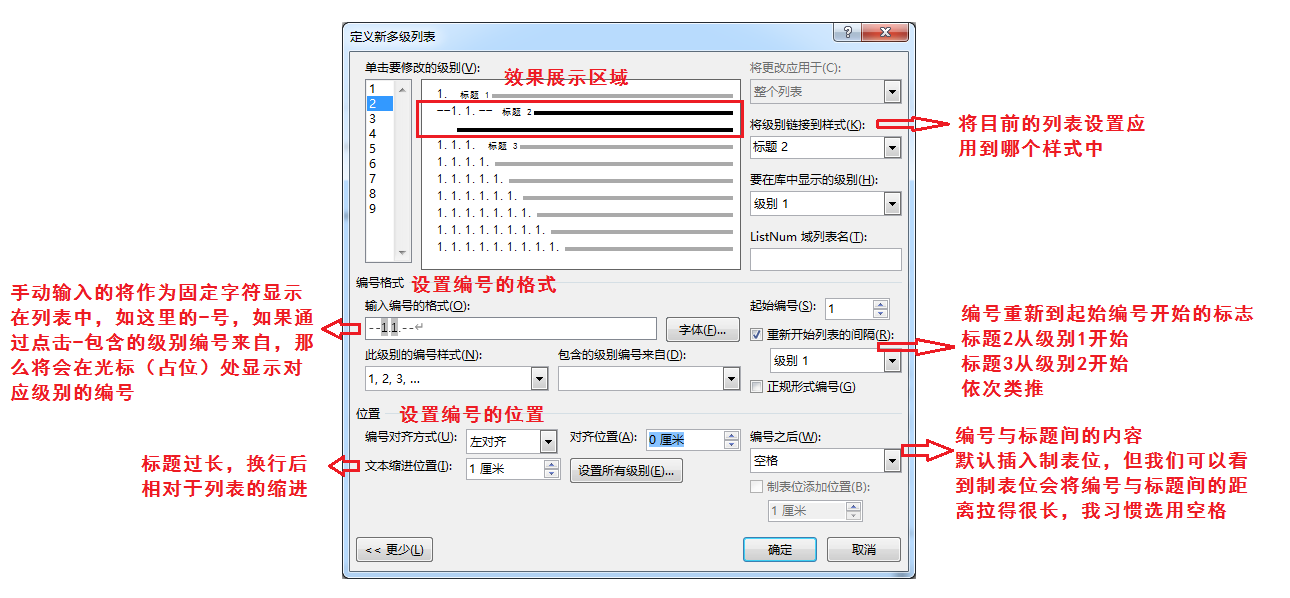
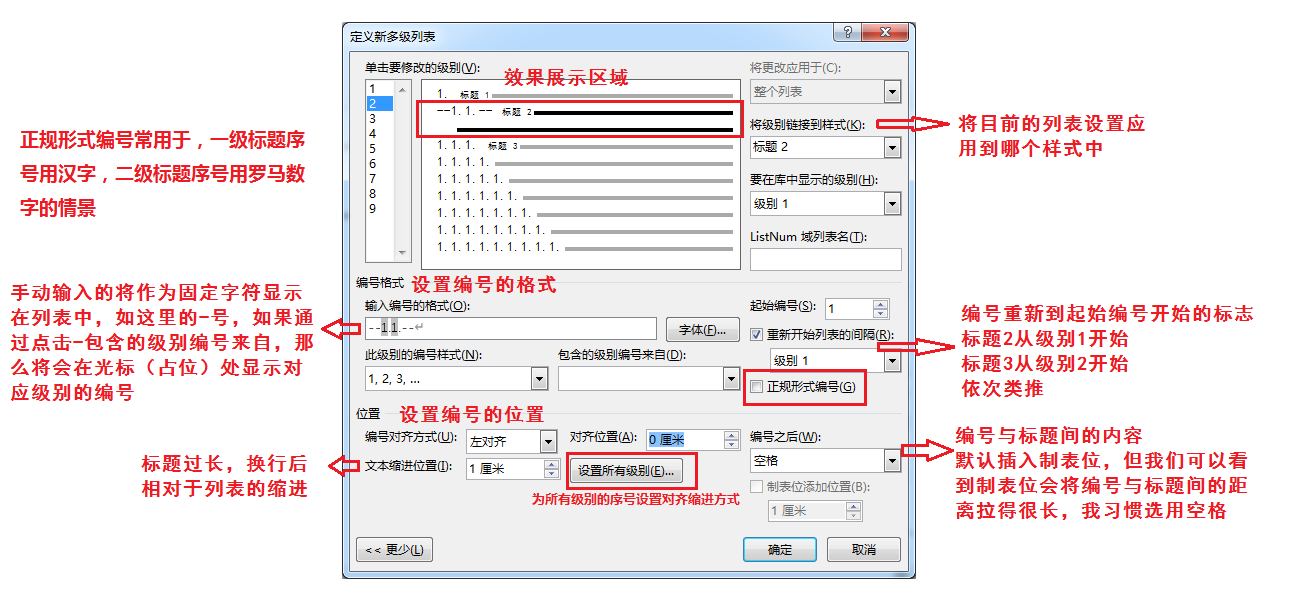
增加了排版，题注等

diff --git a/office/Word.md b/office/Word.md
@@ -114,7 +114,18 @@
      - ![](./legend/word/新建表格样式制作三线表.png)
    - 
 
-10. 
+10. 编号：
+
+    - 通过多级列表去创建编号
+    - [通过题注编号](https://jingyan.baidu.com/article/414eccf6778ca66b421f0a79.htmlhttps://jingyan.baidu.com/article/414eccf6778ca66b421f0a79.html)
+      - 题注就是为图片或表格加注解的成分，通常用来为图标加编号和注解，以及借此生成图表目录
+      - ![](./legend/word/题注.png)
+
+11. word转pdf时加书签
+
+    - ![](./legend/word/转pdf加书签.png)
+
+12. 
 
 # [MathType技巧](https://zhuanlan.zhihu.com/p/25580133)
 
